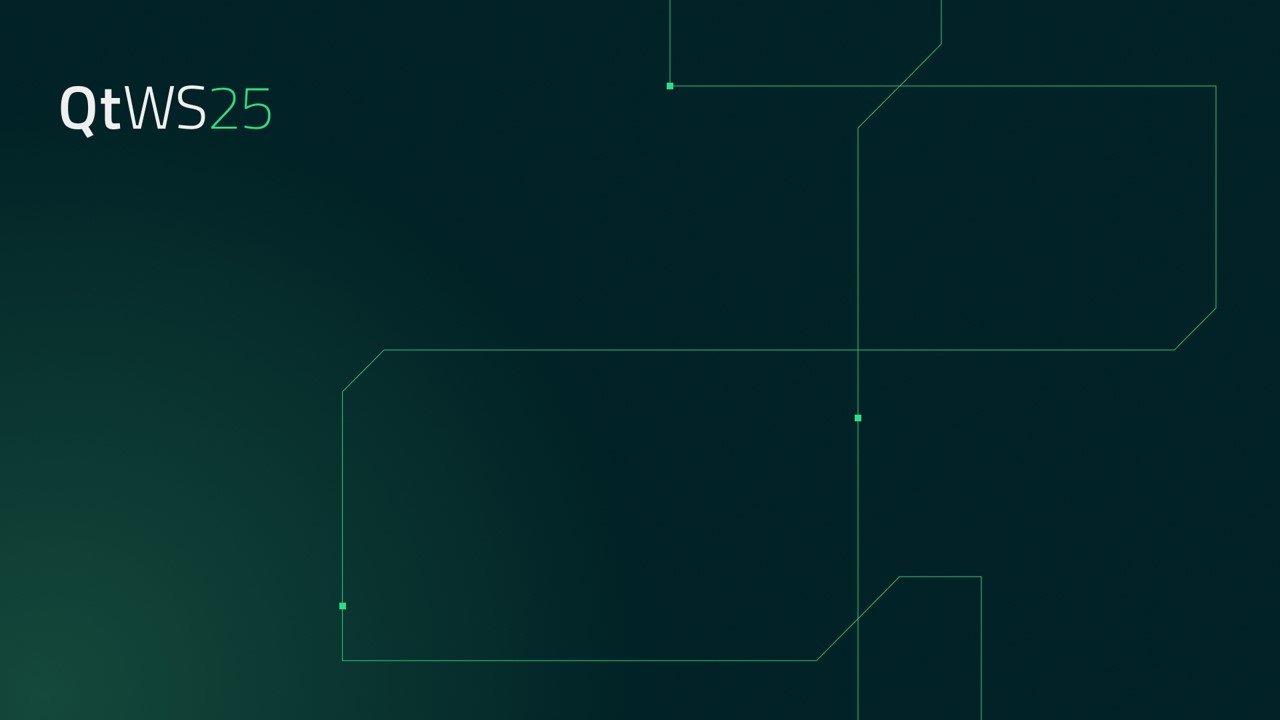
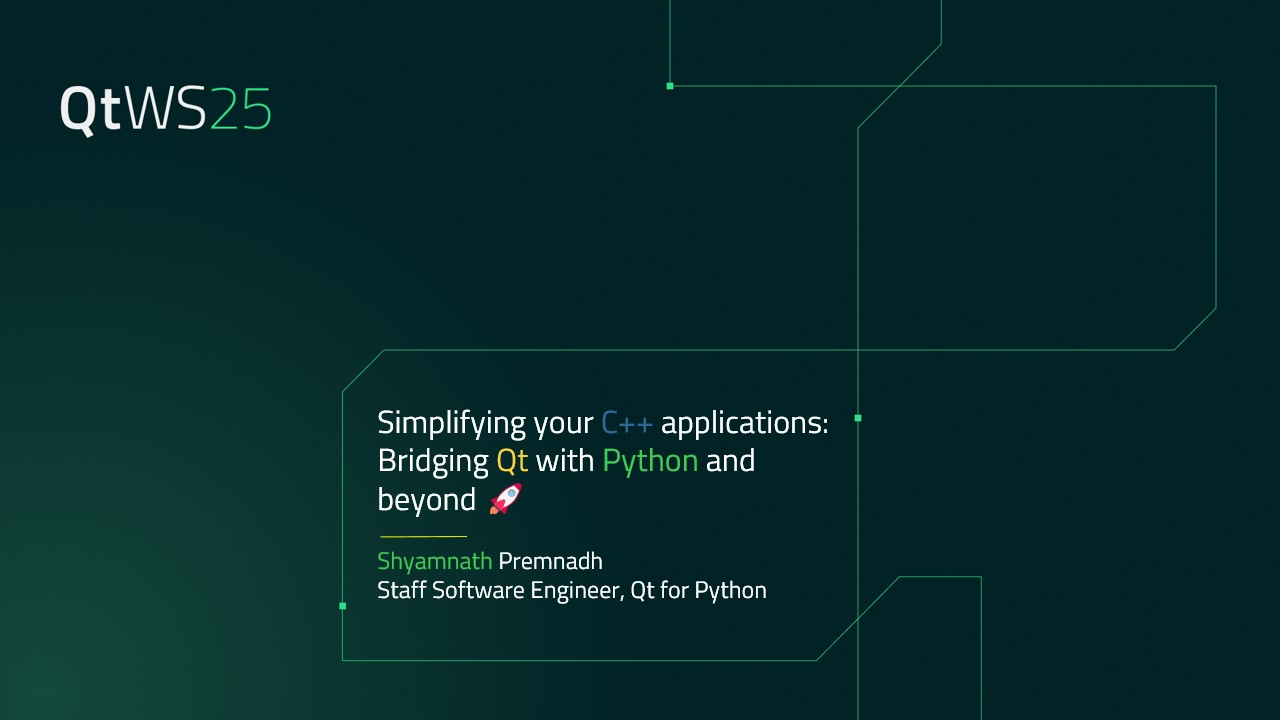
Change front and back images

Changed region(s): [[0.2812, 0.55, 0.6562, 0.8556]]

diff --git a/index.html b/index.html
@@ -31,14 +31,14 @@
     <div class="slides">
       <!--***************************************************************************-->
       <section data-background-image="img/ws_front_1.jpg" data-transition="slide-in fade-out">
-        <div id="left70" style="margin-top: 40%; margin-left: 15%;">
+        <!-- <div id="left70" style="margin-top: 40%; margin-left: 15%;">
             <h3>Simplifying your <i class="blue">C++</i> applications: Bridging <i class="yellow">Qt</i> with <i class="qt-green">Python</i> and beyond 🚀</h3>
           <hr class="qt-line" style="border: 2px solid #41CD52; width: 50%; margin: 10px 0;" />
           <p class="x80">
             <i class="qt-green">Shyamnath</i> Premnadh<br/>
             Staff Software Engineer, Qt for Python<br/>
           </p>
-        </div>
+        </div> -->
         <aside class="notes">
             - to be added
         </aside>
@@ -732,25 +732,7 @@
         </aside>
       </section>
 
-      <section data-background-image="img/ws_last.jpg" data-transition="slide-in fade-out">
-        <!-- Left content -->
-        <div id="left" style="margin-left: -35%; text-align: left; width: 50%; float: left;">
-          <h4>Simplifying your <i class="blue">C++</i> applications: Bridging <i class="yellow">Qt</i> with <i class="qt-green">Python</i> and beyond</h4>
-          <hr class="qt-line"/>
-          <p class="x80" style="font-size: 60%;">
-            <i class="qt-green">Shyamnath</i> Premnadh<br>
-            Staff Software Engineer, Qt for Python<br/>
-            <span class="qt-neon">shyamnath.premnadh@qt.io</span><br/>
-          </p>
-          <p style="font-size: 80%; margin-top: 10px;">
-            Slides: <a href="https://shyamnathp.github.io/qt_ws_2025/">https://shyamnathp.github.io/qt_ws_2025/</a>
-          </p>
-        </div>
-
-        <!-- Right content - Q&A -->
-        <div style="width: 40%; float: right; text-align: center;">
-          <h1 style="font-size: 300%;"><i class="qt-neon">Q&A</i></h1>
-        </div>
+      <section data-background-image="img/ws_back.jpg" data-transition="slide-in fade-out">
       </section>
     </div>
   </div>
